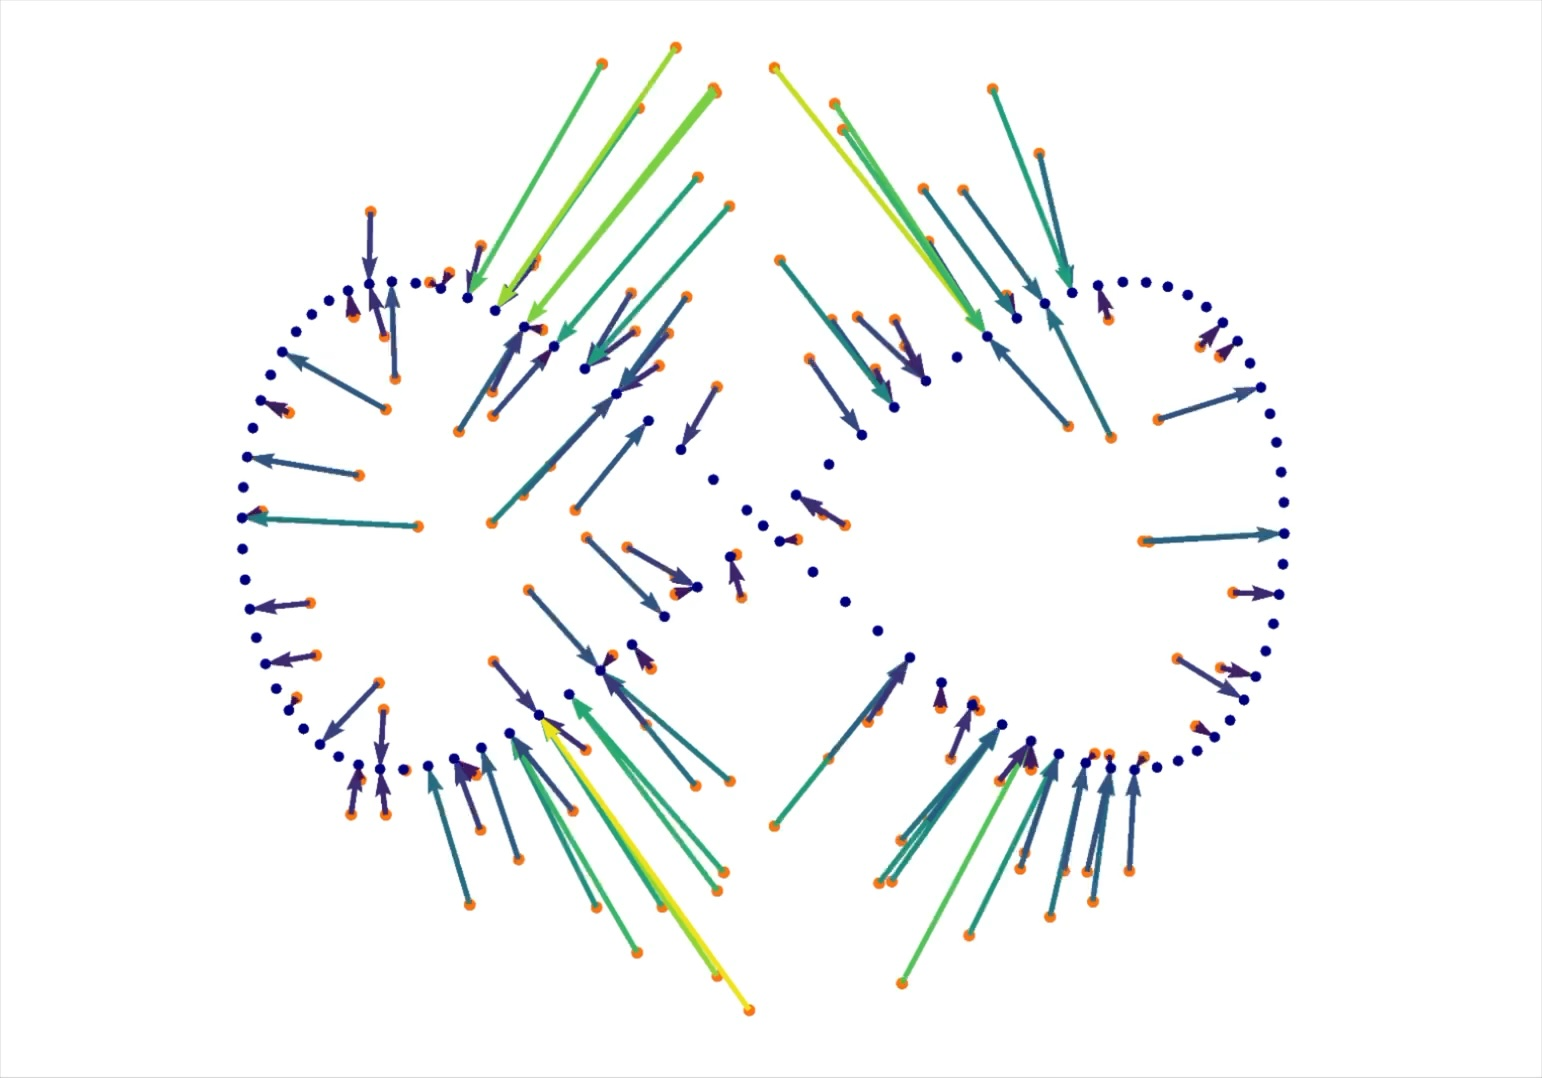
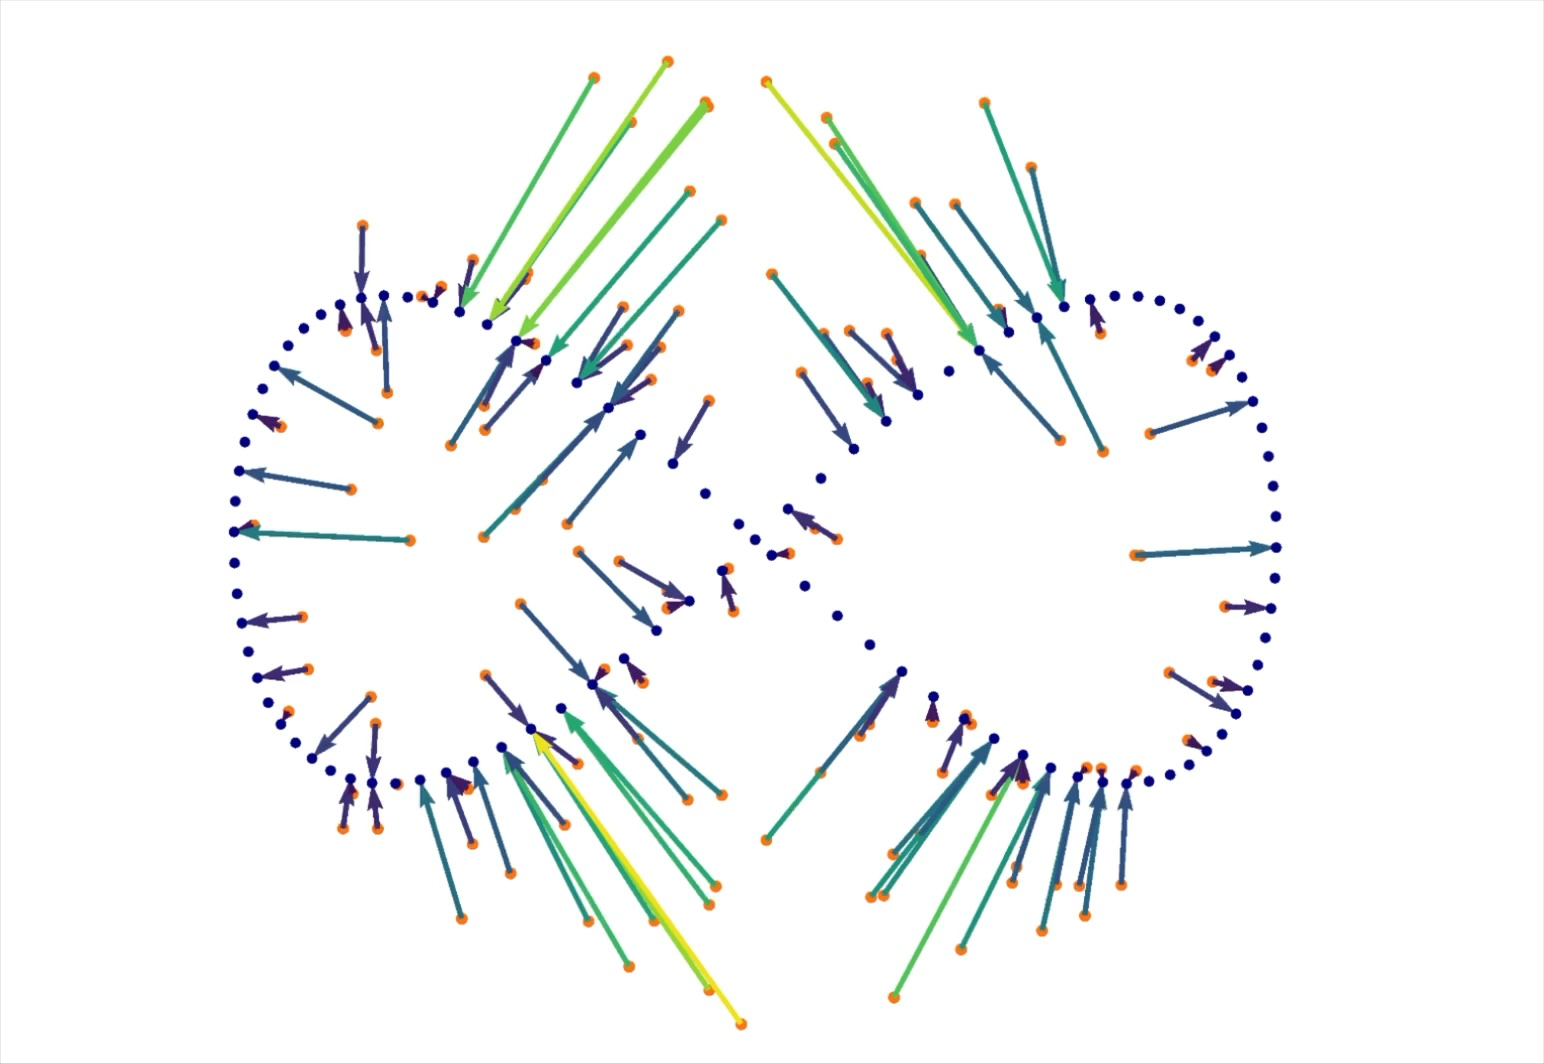
feat: polish media rendering and mobile playback behavior
Add media cache-busting, stronger cross-breakpoint card sizing, automatic in-view playback on touch devices, and fallback text for videos while refining visual contrast and typography density.

diff --git a/index.html b/index.html
@@ -16,7 +16,7 @@
       <!-- Portrait. Swap the src to replace, or remove this block entirely to drop the image. -->
       <img
         class="portrait"
-        src="assets/portrait.jpg"
+        src="assets/portrait.jpg?v=20260602"
         alt="Portrait of Sergey Prokudin"
         width="480"
         height="480"
@@ -65,7 +65,7 @@
         <h2>About</h2>
         <div class="section-body">
           <p>
-            I am a Senior Scientist at ETH Zürich, working at the intersection of computer vision, computer graphics, and machine learning. My research focuses on representations of real-world 3D and 4D phenomena: reconstructing geometry, modelling motion, rendering photorealistic scenes, and extracting structure from visual observations.
+            I am a senior scientist at ETH Zürich, working at the intersection of computer vision, computer graphics, and machine learning. My research focuses on representations of real-world 3D and 4D phenomena: reconstructing geometry, modelling motion, rendering photorealistic scenes, and extracting structure from visual observations.
           </p>
           <p>
             I am increasingly focused on spatial intelligence: the bridge between geometric reconstruction and higher-level reasoning. My goal is to develop models that form and update internal maps to answer fundamental questions: what is where, what changes, and how can a machine interact with its environment?
@@ -86,17 +86,18 @@
               loop
               playsinline
               preload="metadata"
-              poster="assets/representation_3d_poster.jpg"
+              poster="assets/representation_3d_poster.jpg?v=20260602"
               aria-label="Animated 3D scene representation result"
             >
-              <source src="assets/representation_3d.mp4" type="video/mp4" />
+              <source src="assets/representation_3d.mp4?v=20260602" type="video/mp4" />
+              Your browser does not support the video tag.
             </video>
             <h3>3D/4D scene representations</h3>
             <p>Efficient representations for geometry, appearance, motion, and time-varying real-world structure.</p>
             <ul class="work-refs">
               <li><a href="https://markomih.github.io/ResFields/">ResFields</a> <span>ICLR 2024</span></li>
               <li><a href="https://sergeyprokudin.github.io/dpf/">Dynamic Point Fields</a> <span>ICCV 2023</span></li>
-              <li><a href="https://arxiv.org/abs/1908.09186">Basis Point Sets</a> <span>ICCV 2019</span></li>
+              <li><a href="https://github.com/sergeyprokudin/bps">Basis Point Sets</a> <span>ICCV 2019</span></li>
             </ul>
           </article>
 
@@ -109,17 +110,18 @@
               loop
               playsinline
               preload="metadata"
-              poster="assets/reconstruction4d_poster.jpg"
+              poster="assets/reconstruction4d_poster.jpg?v=20260602"
               aria-label="Animated 4D reconstruction and rendering result"
             >
-              <source src="assets/reconstruction4d.mp4" type="video/mp4" />
+              <source src="assets/reconstruction4d.mp4?v=20260602" type="video/mp4" />
+              Your browser does not support the video tag.
             </video>
             <h3>Neural reconstruction and rendering</h3>
             <p>Methods for reconstructing and rendering photorealistic static and dynamic scenes from sparse or imperfect observations.</p>
             <ul class="work-refs">
               <li><a href="https://chenyutongthu.github.io/research/ggpt/">Geometry-Grounded Point Transformer</a> <span>CVPR 2026</span></li>
               <li><a href="https://ethz-vlg.github.io/mvtracker/">Multi-view 3D Point Tracking</a> <span>ICCV 2025</span></li>
-              <li><a href="https://arxiv.org/abs/2411.06390">SplatFormer</a> <span>ICLR 2025</span></li>
+              <li><a href="https://sergeyprokudin.github.io/splatformer/">SplatFormer</a> <span>ICLR 2025</span></li>
               <li><a href="https://markomih.github.io/SplatFields/">SplatFields</a> <span>ECCV 2024</span></li>
             </ul>
           </article>
@@ -133,10 +135,11 @@
               loop
               playsinline
               preload="metadata"
-              poster="assets/digital_humans_poster.jpg"
+              poster="assets/digital_humans_poster.jpg?v=20260602"
               aria-label="Animated human-to-avatar correspondence example"
             >
-              <source src="assets/digital_humans.mp4" type="video/mp4" />
+              <source src="assets/digital_humans.mp4?v=20260602" type="video/mp4" />
+              Your browser does not support the video tag.
             </video>
             <h3>Digital twins</h3>
             <p>Digital representations of humans, biological systems, and surgical scenes: controllable, temporally coherent, and grounded in real observations.</p>
@@ -152,7 +155,7 @@
           <article class="research-item">
             <img
               class="research-media"
-              src="assets/spatial_intelligence.png"
+              src="assets/spatial_intelligence.png?v=20260602"
               alt="Spatial scene understanding with object-centric map"
               width="1542"
               height="1080"
@@ -235,16 +238,24 @@
           video.addEventListener("focus", playVideo);
           video.addEventListener("blur", stopVideo);
         } else {
-          video.addEventListener("click", () => {
-            if (prefersReducedMotion) {
-              return;
-            }
-            if (video.paused) {
-              video.play().catch(() => {});
-            } else {
-              stopVideo();
-            }
+          const observer = new IntersectionObserver((entries) => {
+            entries.forEach((entry) => {
+              if (prefersReducedMotion) {
+                stopVideo();
+                return;
+              }
+
+              if (entry.isIntersecting) {
+                playVideo();
+              } else {
+                stopVideo();
+              }
+            });
+          }, {
+            threshold: 0.6
           });
+
+          observer.observe(video);
         }
       });
     })();

diff --git a/styles.css b/styles.css
@@ -205,12 +205,13 @@ h2 {
   width: 100%;
   max-width: 100%;
   height: auto;
+  aspect-ratio: 1.44 / 1;
   display: block;
   border-radius: 12px;
   border: 1px solid rgba(23, 23, 23, 0.08);
   background: #eceeef;
   object-fit: cover;
-  filter: grayscale(0.82) contrast(1.02);
+  filter: grayscale(0.68) contrast(1.02);
   transition: filter 240ms ease;
 }
 
@@ -303,6 +304,11 @@ footer {
   .research-grid {
     grid-template-columns: 1fr;
     gap: var(--space-md);
+  }
+
+  .work-refs {
+    font-size: 0.86rem;
+    line-height: 1.42;
   }
 
   .full-list { grid-column: 1; }